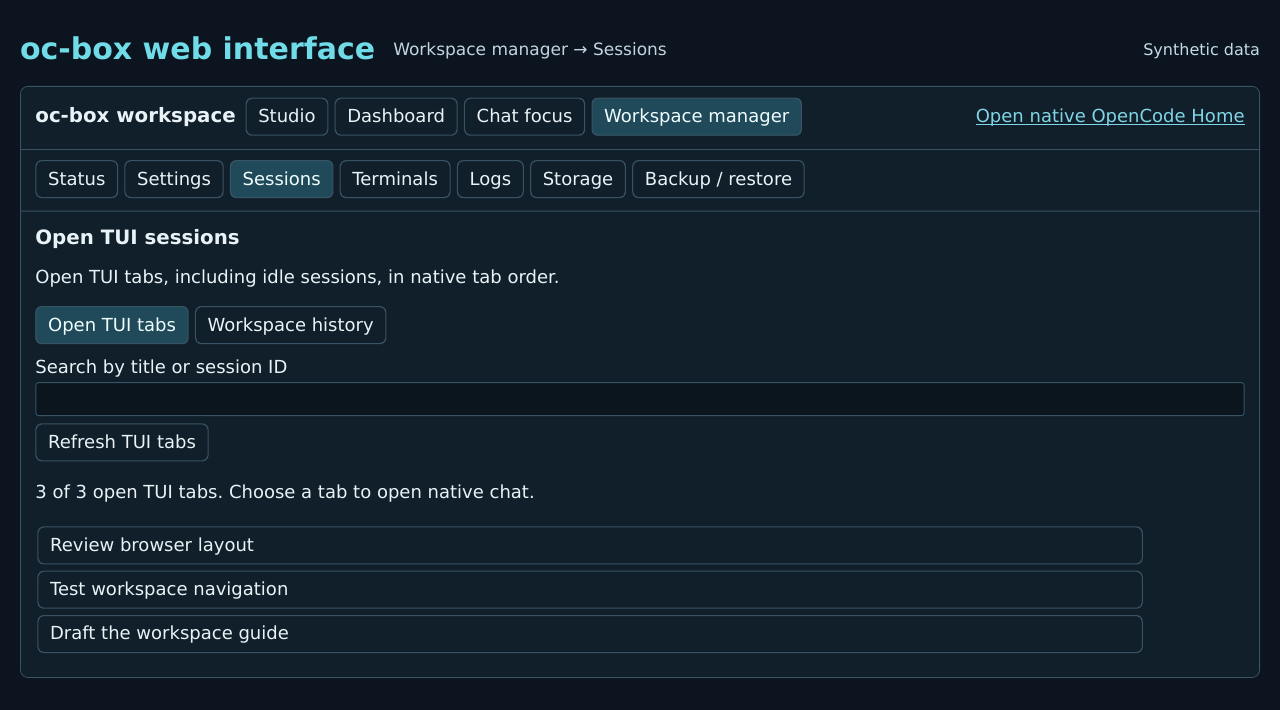
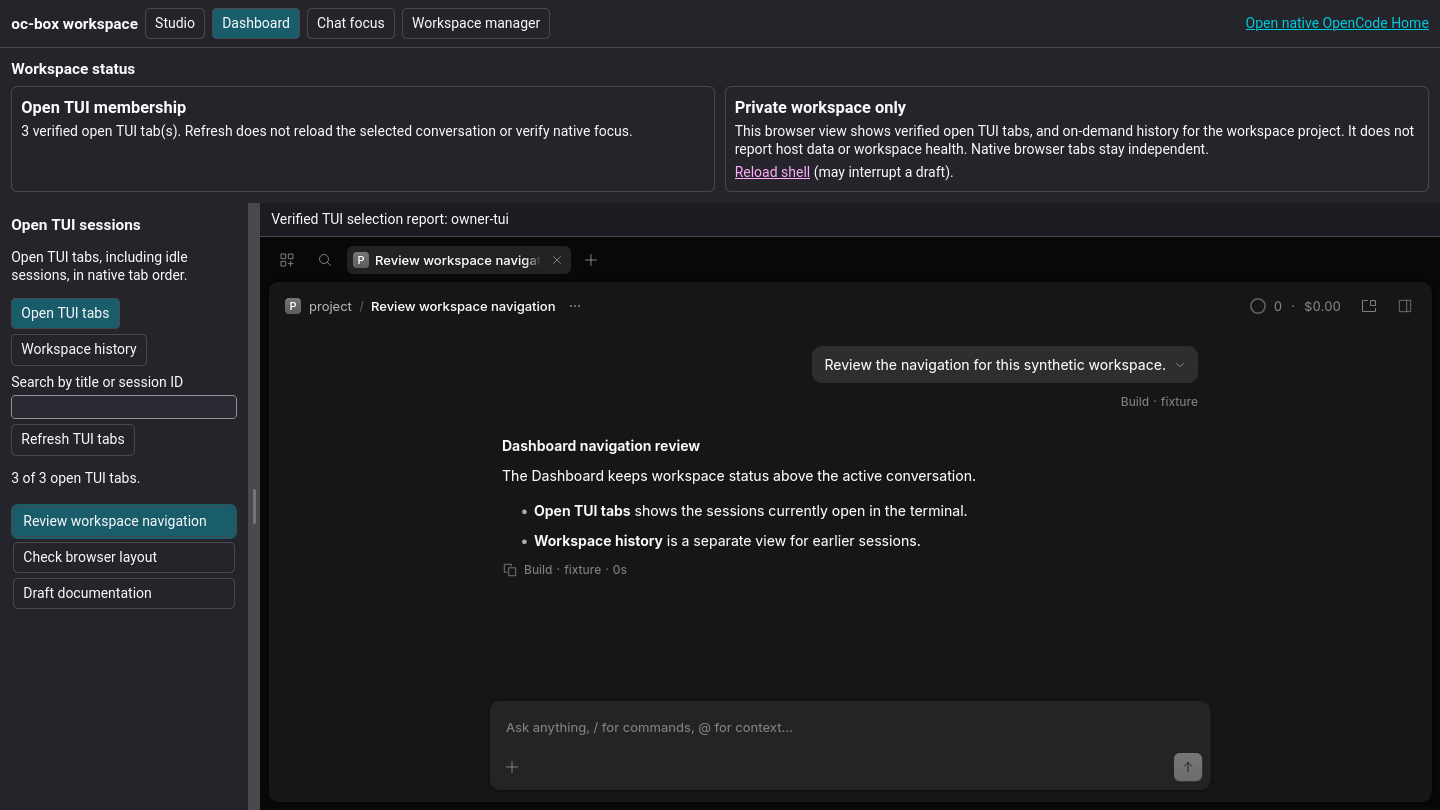
Use a real Firefox screenshot of the web Dashboard
(cherry picked from commit 9a6584e13fcff83f93fa415da7a9a441a40e694e)

diff --git a/docs/assets/readme-web-interface.md b/docs/assets/readme-web-interface.md
@@ -1,16 +1,17 @@
-# Browser Workspace manager preview
+# Browser Dashboard screenshot
 
-`readme-web-interface.png` is a static documentation rendering of **Workspace
-manager → Sessions**, not a live browser or Podman screenshot. It uses
-[the production web shell at `96ee684`](https://github.com/groopcd/oc-box/tree/96ee684b91d852544711672d0d5710d57c7eb615/src/oc_box):
-`web_sessions.document` renders the markup, `web_sessions.js` selects the
-manager layout and its Sessions section and populates a synthetic three-session
-catalog, and `web_sessions.css` supplies the layout. The static renderer uses
-a dark palette and print-layout adjustments. No network request, native
-conversation, credentials or host data was used.
+`readme-web-interface.png` is a Firefox 159.0.1 viewport screenshot of the
+**Dashboard** tab, captured with WebDriver BiDi at 1440 × 810. It shows
+[the production oc-box browser shell and gateway at `9b48657`](https://github.com/groopcd/oc-box/tree/9b4865789637b9c5c176affca3b7f7433e76c3ea/src/oc_box)
+with one unmodified native OpenCode 2.4.1 conversation.
 
-The browser manager exposes TUI-style section navigation, not a live Textual
-terminal or host manager controls. Unsupported sections display an unavailable
-state. See the [development web shell guide](https://github.com/groopcd/oc-box/blob/devel/docs/web-shell.md)
-for the live feature boundaries. The previous Studio image was a hand-drawn SVG
-illustration, not an external image or screenshot.
+The capture used a fresh, synthetic workspace and a private native server,
+with native one-use browser pairing. Only the outer Podman exec transport was
+replaced with local processes. The session transcript was imported through the
+native API, and a fixture supplied the three open TUI tab identities; no
+provider inference or live TUI session was used. No real project, credentials
+or host metadata appears in the image. This is a browser documentation
+screenshot, not a live rootless Podman acceptance run.
+
+See the [development web shell guide](https://github.com/groopcd/oc-box/blob/devel/docs/web-shell.md)
+for the layout and data boundaries.
